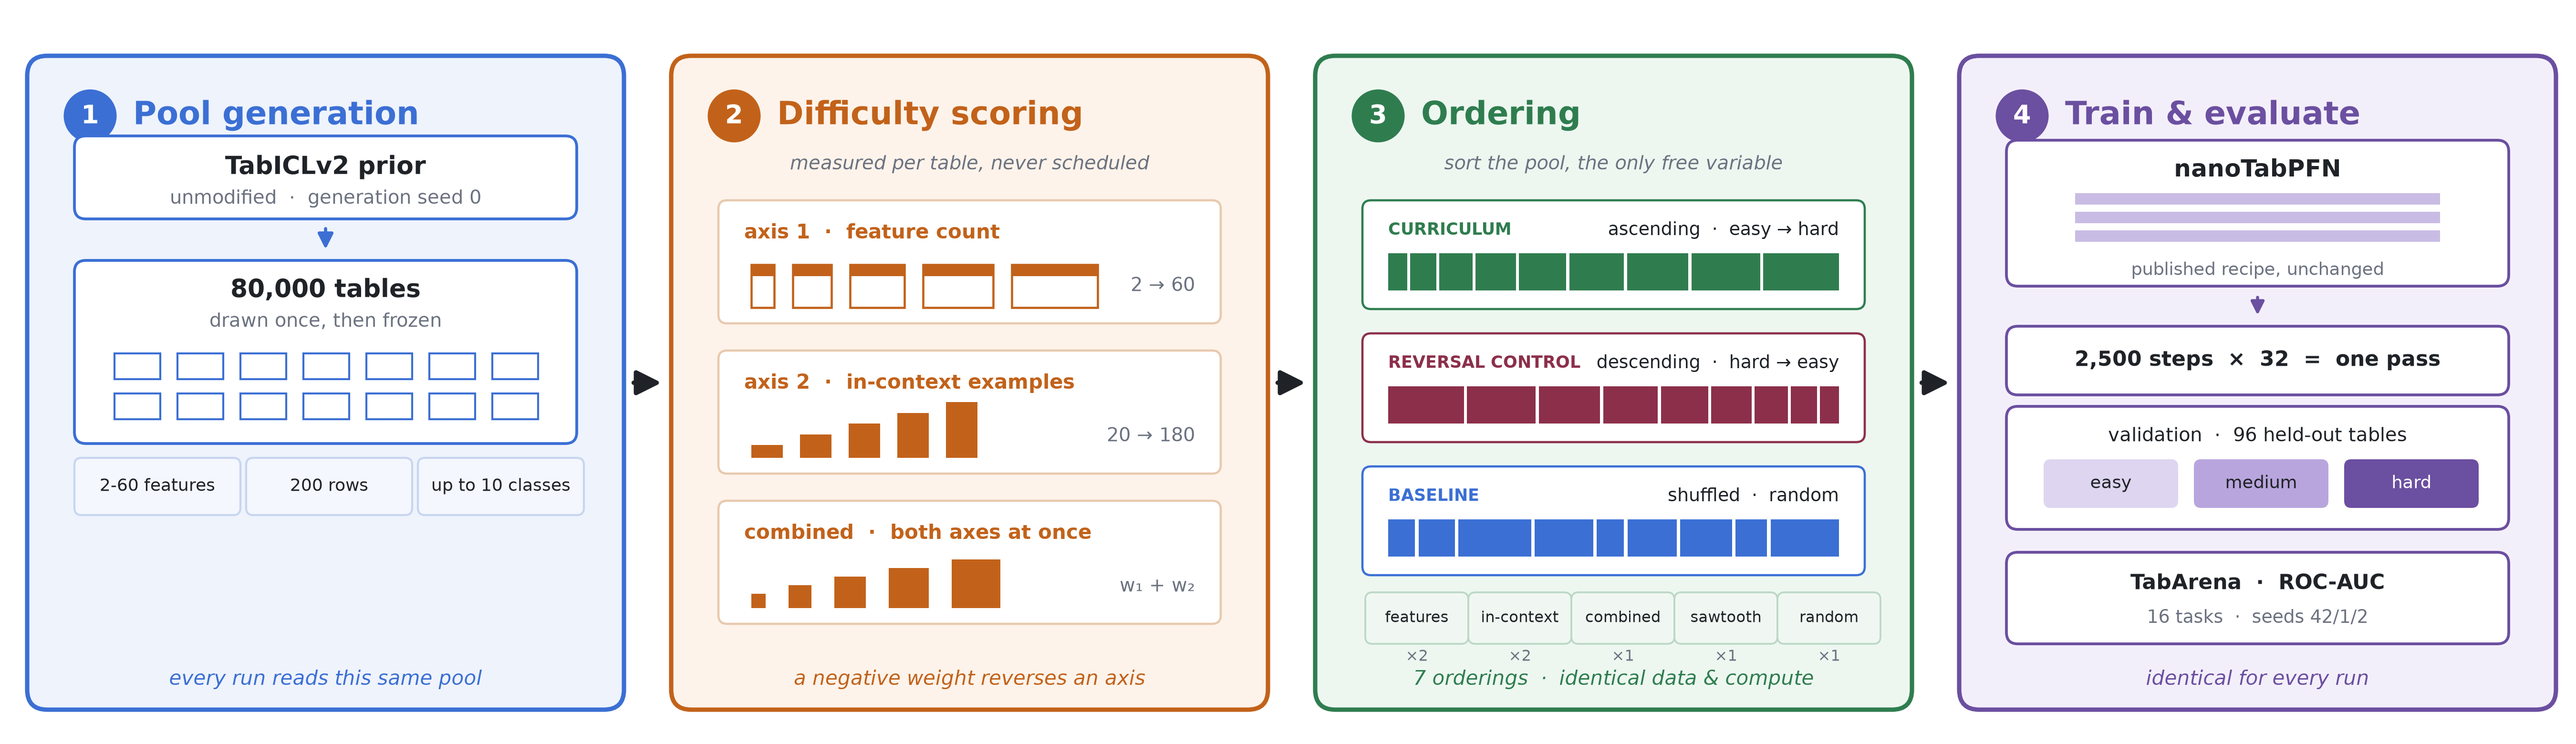
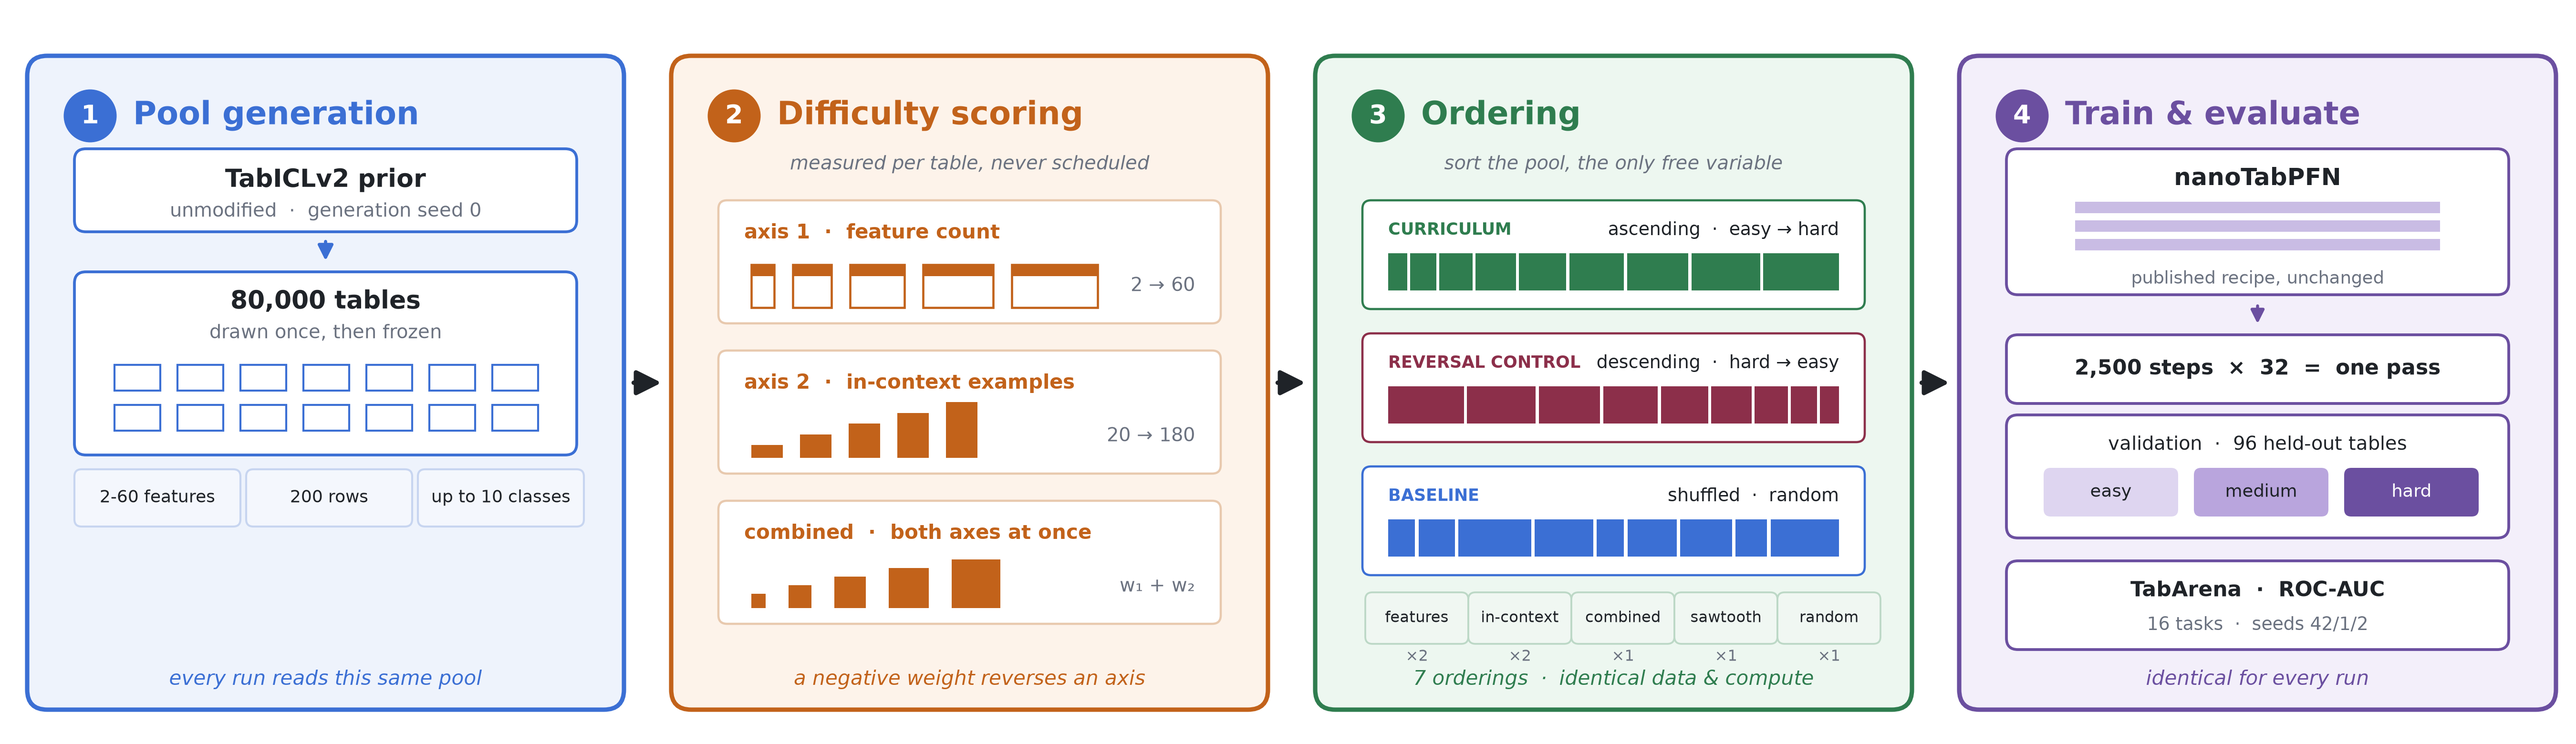
Give the number badges clearance from the inner boxes in panels 1 and 4

Changed region(s): [[0.7778, 0.1846, 0.9956, 0.8923], [0.0311, 0.1538, 0.2178, 0.4923], [0.0311, 0.5231, 0.2178, 0.7077]]

diff --git a/final/code/pipeline_figure.py b/final/code/pipeline_figure.py
@@ -29,29 +29,29 @@ def header(ax, x, top, num, title, color):
 def panel_pool(ax, x):
     top = Y0 + PANEL_H
     header(ax, x, top, "1", "Pool generation", BLUE)
-    # prior box
-    rbox(ax, x + 0.30, top - 1.05, PANEL_W - 0.60, 0.52, BLUE)
-    ax.text(x + PANEL_W / 2, top - 0.72, "TabICLv2 prior", ha="center", va="center",
+    # prior box (kept clear of the number badge above it)
+    rbox(ax, x + 0.30, top - 1.14, PANEL_W - 0.60, 0.52, BLUE)
+    ax.text(x + PANEL_W / 2, top - 0.81, "TabICLv2 prior", ha="center", va="center",
             fontsize=12.5, color=INK, fontweight="bold")
-    ax.text(x + PANEL_W / 2, top - 0.94, "unmodified  ·  generation seed 0", ha="center",
+    ax.text(x + PANEL_W / 2, top - 1.03, "unmodified  ·  generation seed 0", ha="center",
             va="center", fontsize=9.5, color=MUTED)
-    ax.add_patch(FancyArrowPatch((x + PANEL_W / 2, top - 1.12), (x + PANEL_W / 2, top - 1.32),
+    ax.add_patch(FancyArrowPatch((x + PANEL_W / 2, top - 1.21), (x + PANEL_W / 2, top - 1.40),
                                  arrowstyle="-|>", mutation_scale=16, color=BLUE, lw=1.6))
     # 80k tables box with a little grid of table icons
-    rbox(ax, x + 0.30, top - 2.62, PANEL_W - 0.60, 1.22, BLUE)
-    ax.text(x + PANEL_W / 2, top - 1.58, "80,000 tables", ha="center", va="center",
+    rbox(ax, x + 0.30, top - 2.70, PANEL_W - 0.60, 1.22, BLUE)
+    ax.text(x + PANEL_W / 2, top - 1.66, "80,000 tables", ha="center", va="center",
             fontsize=12.5, color=INK, fontweight="bold")
-    ax.text(x + PANEL_W / 2, top - 1.80, "drawn once, then frozen", ha="center",
+    ax.text(x + PANEL_W / 2, top - 1.88, "drawn once, then frozen", ha="center",
             va="center", fontsize=9.5, color=MUTED)
     for r in range(2):
         for c in range(7):
-            ax.add_patch(plt.Rectangle((x + 0.55 + c * 0.44, top - 2.20 - r * 0.28),
+            ax.add_patch(plt.Rectangle((x + 0.55 + c * 0.44, top - 2.28 - r * 0.28),
                                        0.32, 0.18, fc="white", ec=BLUE, lw=1.0))
     # property chips in one row
     for i, txt in enumerate(["2-60 features", "200 rows", "up to 10 classes"]):
         cx = x + 0.30 + i * 1.20
-        rbox(ax, cx, top - 3.12, 1.10, 0.34, "#c7d5f0", fc="#f4f7fd", lw=1.0, r=0.05)
-        ax.text(cx + 0.55, top - 2.95, txt, ha="center", va="center", fontsize=8.6, color=INK)
+        rbox(ax, cx, top - 3.20, 1.10, 0.34, "#c7d5f0", fc="#f4f7fd", lw=1.0, r=0.05)
+        ax.text(cx + 0.55, top - 3.03, txt, ha="center", va="center", fontsize=8.6, color=INK)
     ax.text(x + PANEL_W / 2, Y0 + 0.15, "every run reads this same pool", ha="center",
             va="center", fontsize=10, color=BLUE, style="italic")
 
@@ -147,36 +147,36 @@ def panel_ordering(ax, x):
 def panel_train(ax, x):
     top = Y0 + PANEL_H
     header(ax, x, top, "4", "Train & evaluate", PURPLE)
-    # model box with three layer bars
-    rbox(ax, x + 0.30, top - 1.52, PANEL_W - 0.60, 0.96, PURPLE)
-    ax.text(x + PANEL_W / 2, top - 0.74, "nanoTabPFN", ha="center", va="center",
+    # model box with three layer bars (kept clear of the number badge above it)
+    rbox(ax, x + 0.30, top - 1.58, PANEL_W - 0.60, 0.96, PURPLE)
+    ax.text(x + PANEL_W / 2, top - 0.80, "nanoTabPFN", ha="center", va="center",
             fontsize=12, color=INK, fontweight="bold")
     for i in range(3):
-        ax.add_patch(plt.Rectangle((x + 0.75, top - 0.98 - i * 0.13), PANEL_W - 1.50, 0.08,
+        ax.add_patch(plt.Rectangle((x + 0.75, top - 1.04 - i * 0.13), PANEL_W - 1.50, 0.08,
                                    fc="#c9bce4", ec="none"))
-    ax.text(x + PANEL_W / 2, top - 1.44, "published recipe, unchanged", ha="center",
+    ax.text(x + PANEL_W / 2, top - 1.50, "published recipe, unchanged", ha="center",
             va="center", fontsize=8.8, color=MUTED)
-    ax.add_patch(FancyArrowPatch((x + PANEL_W / 2, top - 1.60), (x + PANEL_W / 2, top - 1.78),
+    ax.add_patch(FancyArrowPatch((x + PANEL_W / 2, top - 1.66), (x + PANEL_W / 2, top - 1.84),
                                  arrowstyle="-|>", mutation_scale=14, color=PURPLE, lw=1.5))
-    rbox(ax, x + 0.30, top - 2.28, PANEL_W - 0.60, 0.42, PURPLE)
-    ax.text(x + PANEL_W / 2, top - 2.07, "2,500 steps  ×  32  =  one pass", ha="center",
+    rbox(ax, x + 0.30, top - 2.34, PANEL_W - 0.60, 0.42, PURPLE)
+    ax.text(x + PANEL_W / 2, top - 2.13, "2,500 steps  ×  32  =  one pass", ha="center",
             va="center", fontsize=10.5, color=INK, fontweight="bold")
     # validation box with easy/medium/hard chips
-    rbox(ax, x + 0.30, top - 3.22, PANEL_W - 0.60, 0.80, PURPLE)
-    ax.text(x + PANEL_W / 2, top - 2.60, "validation  ·  96 held-out tables", ha="center",
+    rbox(ax, x + 0.30, top - 3.28, PANEL_W - 0.60, 0.80, PURPLE)
+    ax.text(x + PANEL_W / 2, top - 2.66, "validation  ·  96 held-out tables", ha="center",
             va="center", fontsize=9.5, color=INK)
     for i, (band, shade) in enumerate([("easy", "#ded5f0"), ("medium", "#b9a5dd"),
                                        ("hard", "#6b4fa0")]):
         cx = x + 0.55 + i * 1.05
-        ax.add_patch(FancyBboxPatch((cx, top - 3.08), 0.90, 0.30,
+        ax.add_patch(FancyBboxPatch((cx, top - 3.14), 0.90, 0.30,
                                     boxstyle="round,pad=0.02,rounding_size=0.05",
                                     fc=shade, ec="none"))
-        ax.text(cx + 0.45, top - 2.93, band, ha="center", va="center", fontsize=8.8,
+        ax.text(cx + 0.45, top - 2.99, band, ha="center", va="center", fontsize=8.8,
                 color="white" if i == 2 else INK)
-    rbox(ax, x + 0.30, top - 4.02, PANEL_W - 0.60, 0.58, PURPLE)
-    ax.text(x + PANEL_W / 2, top - 3.63, "TabArena  ·  ROC-AUC", ha="center", va="center",
+    rbox(ax, x + 0.30, top - 4.06, PANEL_W - 0.60, 0.56, PURPLE)
+    ax.text(x + PANEL_W / 2, top - 3.68, "TabArena  ·  ROC-AUC", ha="center", va="center",
             fontsize=10.5, color=INK, fontweight="bold")
-    ax.text(x + PANEL_W / 2, top - 3.87, "16 tasks  ·  seeds 42/1/2", ha="center",
+    ax.text(x + PANEL_W / 2, top - 3.92, "16 tasks  ·  seeds 42/1/2", ha="center",
             va="center", fontsize=9, color=MUTED)
     ax.text(x + PANEL_W / 2, Y0 + 0.15, "identical for every run", ha="center",
             va="center", fontsize=10, color=PURPLE, style="italic")
